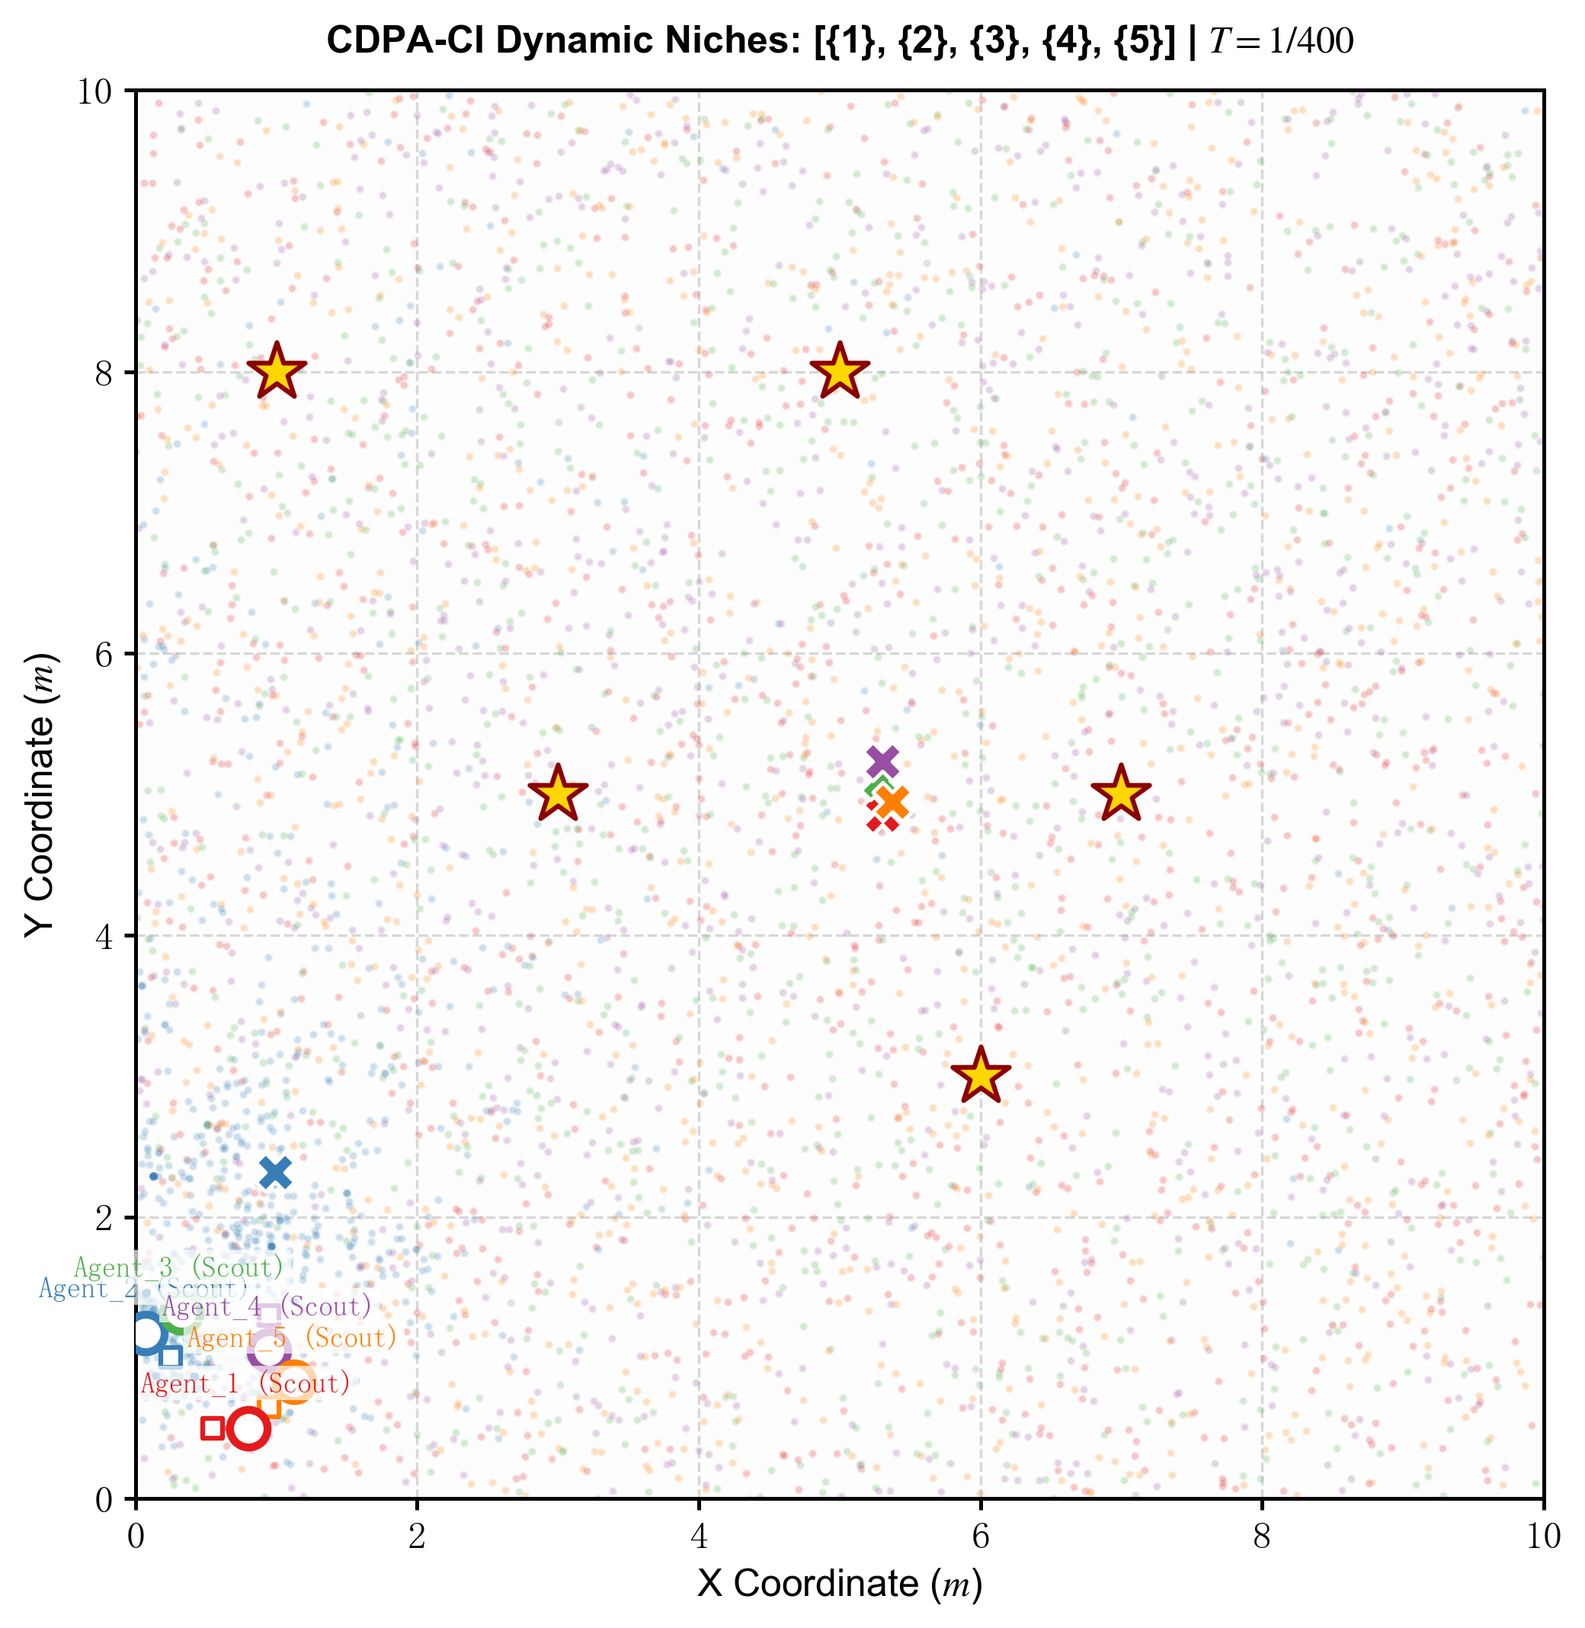
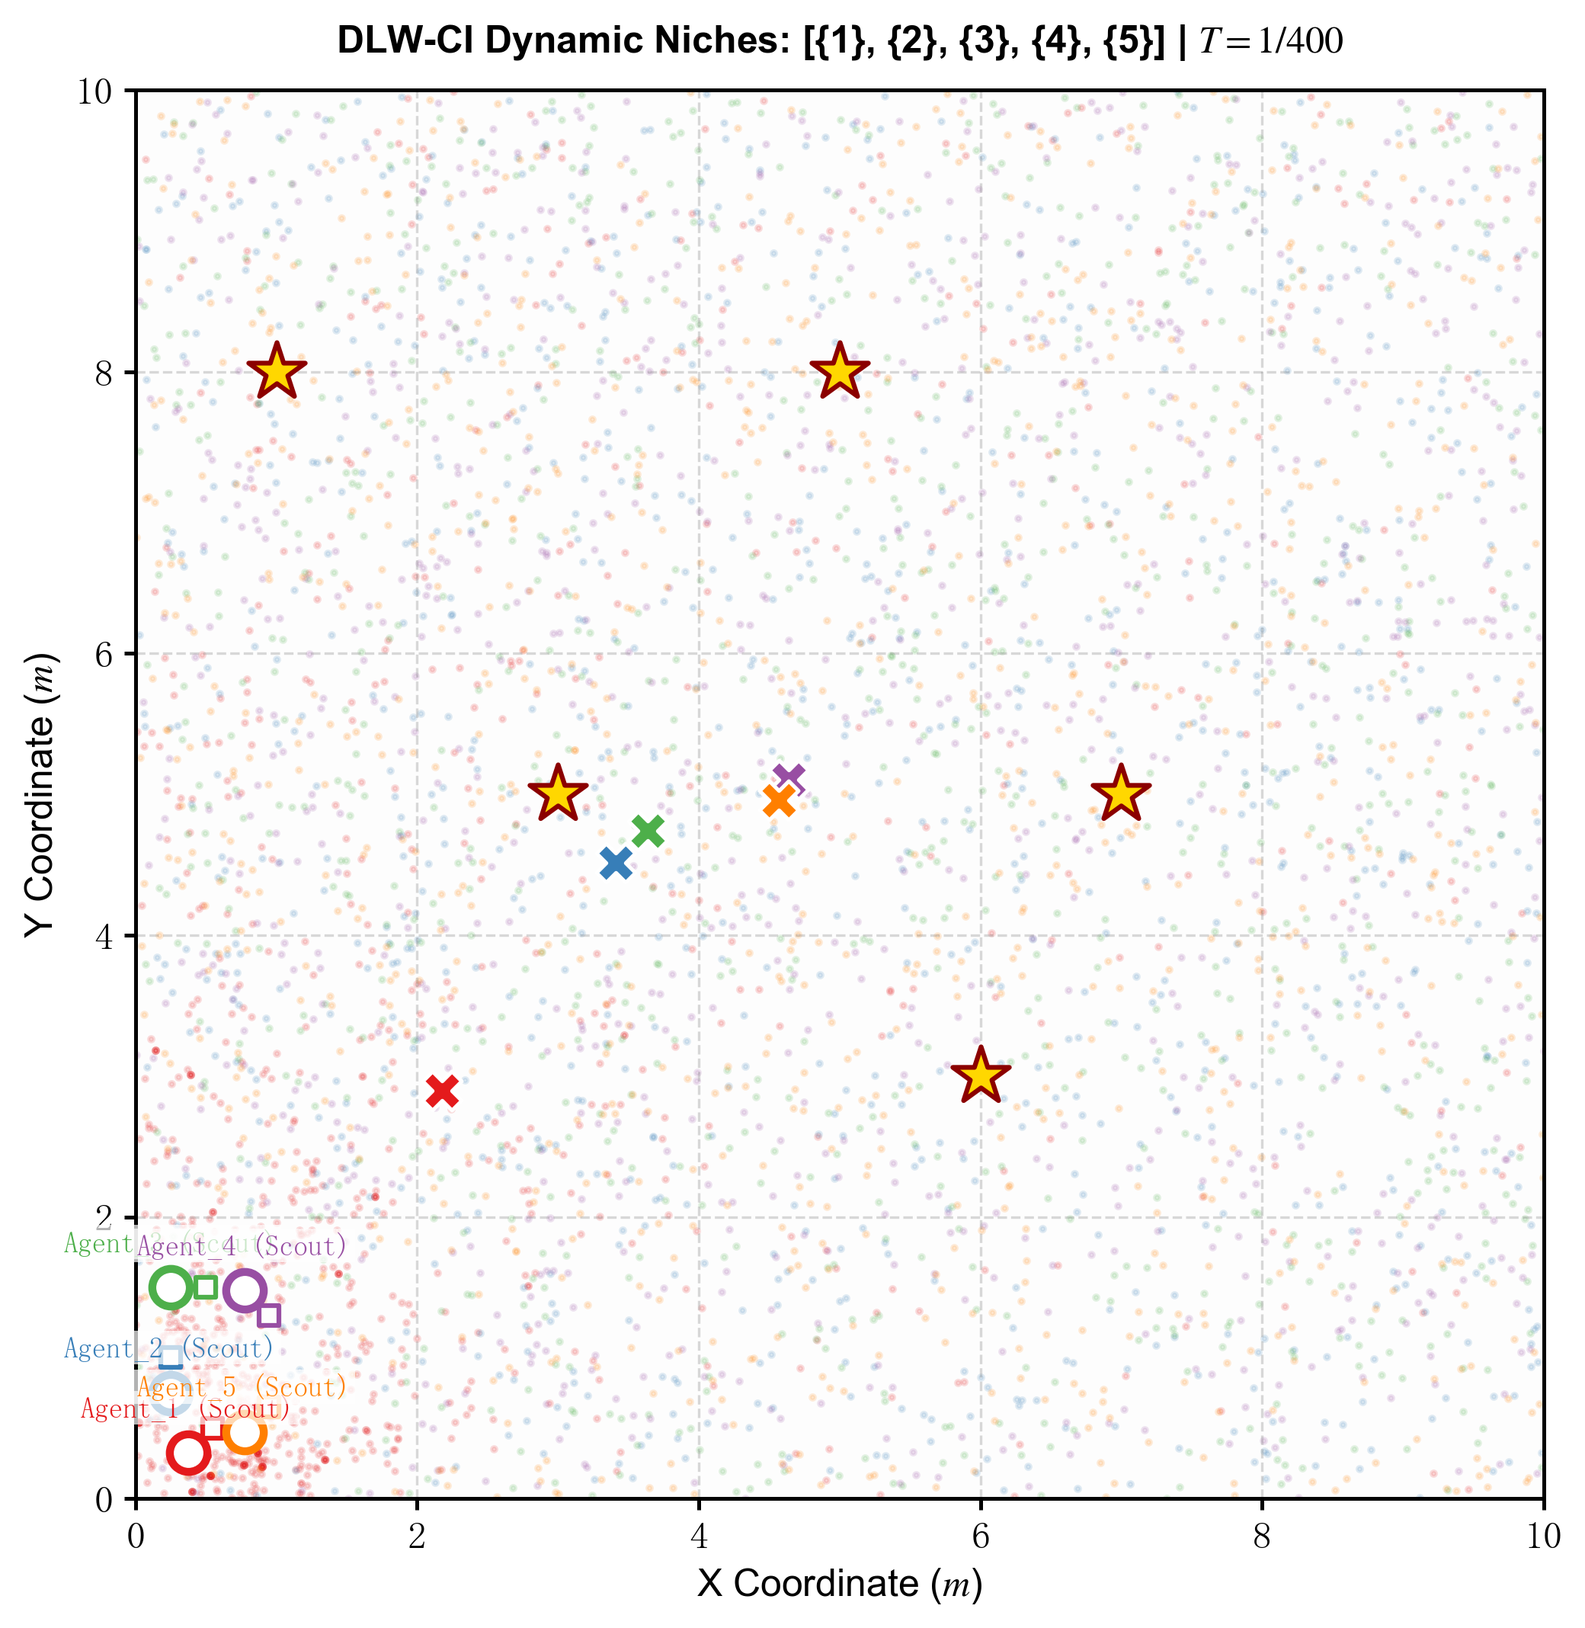
1

Changed region(s): [[0.0312, 0.0, 0.9688, 0.927]]

diff --git a/seeking_DLW-CI.py b/seeking_DLW-CI.py
@@ -94,7 +94,7 @@ layer_num = robot_num  # 平行粒子滤波层数等于探测器数量
 resample_threshold = 0.5  # ESS自适应重采样阈值
 
 # ==========================================
-# CDPA-CI Ablation / Debug 开关系统
+# DLW-CI Ablation / Debug 开关系统
 # ==========================================
 
 # --- 命令行参数解析 (用于 ablation 子进程调用) ---
@@ -340,7 +340,7 @@ def _parse_debug_summary(filepath):
 
 
 def run_single_experiment(config=None, seed=None):
-    """运行单次 CDPA-CI 仿真实验 (子进程)."""
+    """运行单次 DLW-CI 仿真实验 (子进程)."""
     script_dir = os.path.dirname(os.path.abspath(__file__))
     cmd = [sys.executable, __file__]
     if config is not None:
@@ -851,7 +851,7 @@ def _build_paper_main_table(ablation_rows):
             stability_note = "ESS-Only is more stable (lower failure rate \\& last-50 RMSE)."
     # 生成 LaTeX
     lines = []
-    lines.append("% Auto-generated by CDPA-CI paper pipeline")
+    lines.append("% Auto-generated by DLW-CI paper pipeline")
     lines.append("\\begin{table}[t]")
     lines.append("\\centering")
     lines.append("\\caption{Main Ablation Results (mean $\\pm$ std over 30 runs).}")
@@ -936,7 +936,7 @@ def _build_generalization_table(gen_csv_path="generalization_summary.csv"):
 def _build_harmful_table(harmful_rows):
     """生成 harmful modules LaTeX 表格."""
     modes_order = ["cognitive_fusion", "gated_cognitive_fusion", "full"]
-    mode_labels = {"cognitive_fusion": "Cog. Fusion", "gated_cognitive_fusion": "Gated Cog. Fusion", "full": "Full CDPA-CI"}
+    mode_labels = {"cognitive_fusion": "Cog. Fusion", "gated_cognitive_fusion": "Gated Cog. Fusion", "full": "Full DLW-CI"}
     lines = []
     lines.append("\\begin{table}[t]")
     lines.append("\\centering")
@@ -1025,7 +1025,7 @@ def _generate_paper_figures():
     harmful_rows = _read_csv_safe("harmful_summary.csv")
     if harmful_rows:
         h_modes = ["cognitive_fusion", "gated_cognitive_fusion", "full"]
-        h_labels = ["Cog.\nFusion", "Gated\nCog.Fusion", "Full\nCDPA-CI"]
+        h_labels = ["Cog.\nFusion", "Gated\nCog.Fusion", "Full\nDLW-CI"]
         h_means, h_stds = [], []
         for m in h_modes:
             found = [r for r in harmful_rows if r["mode"] == m and r["metric"] == "final_rmse"]
@@ -1075,7 +1075,7 @@ def _generate_experiment_summary(ablation_rows, harmful_rows, stability_note):
     """生成实验结论文本."""
     lines = []
     lines.append("=" * 60)
-    lines.append("CDPA-CI Paper Experiment Summary")
+    lines.append("DLW-CI Paper Experiment Summary")
     lines.append("=" * 60)
     lines.append("")
     # 找最优
@@ -1148,7 +1148,7 @@ def _generate_experiment_summary(ablation_rows, harmful_rows, stability_note):
 def summarize_paper_results():
     """论文级结果汇总主函数."""
     print("\n" + "=" * 60)
-    print("CDPA-CI: Generating Paper-Ready Results")
+    print("DLW-CI: Generating Paper-Ready Results")
     print("=" * 60)
     ablation_rows = _read_csv_safe("ablation_summary.csv")
     harmful_rows = _read_csv_safe("harmful_summary.csv")
@@ -1329,7 +1329,7 @@ def dif22_vectorized(X, Y, ln, lo_ids, lo_sources, p_x, p_y, p_q, a, V, D, lamda
     参数:
         fusion_weights: dict (可选), {j: omega_ij} 认知差异融合权重.
                        若为 None, 回退到原始 KL 衰减 weight = 1.0 + exp(-D_KL).
-                       (CDPA-CI Phase 4)
+                       (DLW-CI Phase 4)
     """
     X = np.asarray(X)
     Y = np.asarray(Y)
@@ -1344,7 +1344,7 @@ def dif22_vectorized(X, Y, ln, lo_ids, lo_sources, p_x, p_y, p_q, a, V, D, lamda
         R = a * lo_sources[i, 2] / F
         R = R * K * S
         if fusion_weights is not None:
-            # CDPA-CI Phase 4: cognitive fusion weight
+            # DLW-CI Phase 4: cognitive fusion weight
             w = fusion_weights.get(order_i, 0.0)
             base_conc += R * w
         else:
@@ -1360,7 +1360,7 @@ def dif22_vectorized(X, Y, ln, lo_ids, lo_sources, p_x, p_y, p_q, a, V, D, lamda
     R = a * p_q / F
     R = R * K * S
     if fusion_weights is not None:
-        # CDPA-CI Phase 4: self-trust = 1.0
+        # DLW-CI Phase 4: self-trust = 1.0
         particle_conc = R  # self belief is always trusted
     else:
         weight = 1.0 + np.exp(-D_KL[ln, ln])
@@ -1439,7 +1439,7 @@ def systematic_resample(weights):
 
 
 # ==========================================
-# CDPA-CI Phase 3: 动态小生境 (Niche) 构建函数
+# DLW-CI Phase 3: 动态小生境 (Niche) 构建函数
 # ==========================================
 def build_niche_graph(layer_cluster, D_KL, robot_status, delta_mu, delta_kl):
     """
@@ -1643,7 +1643,7 @@ def compute_niche_gaussian_consensus(niche, layer_cluster, layer_cov, w_obs):
 
 
 # ==========================================
-# CDPA-CI Phase 4: 认知差异 (Cognitive Difference) 与信念融合函数
+# DLW-CI Phase 4: 认知差异 (Cognitive Difference) 与信念融合函数
 # ==========================================
 def compute_entropy(weights):
     """
@@ -1785,7 +1785,7 @@ def same_source_gate(i, j, layer_cluster, layer_cov, D_KL, z, pX, pY, a, V, D, l
 
 
 # ==========================================
-# CDPA-CI Phase 5: 角色自适应 (Role-Adaptive) 函数
+# DLW-CI Phase 5: 角色自适应 (Role-Adaptive) 函数
 # ==========================================
 def compute_belief_confidence(layer_cov, ln):
     """
@@ -1848,7 +1848,7 @@ def assign_roles_for_all_agents(layer_cov, w_end, z, robot_status, thresholds):
 
 
 # ==========================================
-# CDPA-CI Phase 6: 源声明与排斥 (Source Declaration & Exclusion) 函数
+# DLW-CI Phase 6: 源声明与排斥 (Source Declaration & Exclusion) 函数
 # ==========================================
 def check_source_declaration(agent_id, layer_cluster, layer_cov, z, pX, pY, thresholds):
     """
@@ -2312,10 +2312,10 @@ plt.close()
 # ==========================================
 z_h = []
 D_KL_h = [[] for _ in range(layer_num)]
-ess_h = [[] for _ in range(layer_num)]  # CDPA-CI Phase 1: 每层每步的有效粒子数 (ESS)
-niche_h = []  # CDPA-CI Phase 3: 每个时间步的小生境分组列表
-fusion_weight_h = [[] for _ in range(layer_num)]  # CDPA-CI Phase 4: 每步的融合权重记录
-role_h = []  # CDPA-CI Phase 5: 每个时间步的角色分配记录
+ess_h = [[] for _ in range(layer_num)]  # DLW-CI Phase 1: 每层每步的有效粒子数 (ESS)
+niche_h = []  # DLW-CI Phase 3: 每个时间步的小生境分组列表
+fusion_weight_h = [[] for _ in range(layer_num)]  # DLW-CI Phase 4: 每步的融合权重记录
+role_h = []  # DLW-CI Phase 5: 每个时间步的角色分配记录
 diversity_penalty_h = []  # Source-Aware Diversity: 每步平均 diversity penalty
 adaptive_step_h = [[] for _ in range(layer_num)]  # Adaptive Step: 每机器人每步步长记录
 # Visitation-Aware Novelty
@@ -2347,9 +2347,9 @@ first_full_success_step = -1
 early_stop_flag = 0
 final_source_accuracy = 0.0
 best_source_accuracy = 0.0
-declared_sources = []  # CDPA-CI Phase 6: 已声明源位置列表 [(x, y, Q), ...]
-declared_source_h = []  # CDPA-CI Phase 6: 每个时间步声明的源数量
-candidate_sources = []  # CDPA-CI Phase 6 修复: 候选源 [{pos, counter, supporters}, ...]
+declared_sources = []  # DLW-CI Phase 6: 已声明源位置列表 [(x, y, Q), ...]
+declared_source_h = []  # DLW-CI Phase 6: 每个时间步声明的源数量
+candidate_sources = []  # DLW-CI Phase 6 修复: 候选源 [{pos, counter, supporters}, ...]
 mse_h = []
 source_true = np.column_stack((sourceX, sourceY))
 gif_frames = []
@@ -2365,12 +2365,12 @@ XP_y = pY.copy()
 XP_maxz = np.zeros(layer_num)
 robot_status = np.ones(layer_num) # 1 为活动状态, 0 为已宣称源并停留
 
-# CDPA-CI Phase 3: 初始小生境为各机器人独立 (第1步尚无KL信息)
+# DLW-CI Phase 3: 初始小生境为各机器人独立 (第1步尚无KL信息)
 niches = [[i] for i in range(layer_num) if robot_status[i] == 1]
 
-role_names = ['Scout', 'Tracker', 'Verifier']  # CDPA-CI Phase 5: 角色名称映射
+role_names = ['Scout', 'Tracker', 'Verifier']  # DLW-CI Phase 5: 角色名称映射
 
-# 打开运行日志文件 (CDPA-CI)
+# 打开运行日志文件 (DLW-CI)
 # 确保 results_dir 和 results_fig_dir 已存在（兼容外部或之前创建的位置）
 if 'results_dir' not in globals():
     from datetime import datetime
@@ -2386,7 +2386,7 @@ else:
     os.makedirs(results_fig_dir, exist_ok=True)
 
 log_f = open(os.path.join(results_dir, "run_log.txt"), "w", encoding="utf-8")
-log_f.write("CDPA-CI Simulation Log\n")
+log_f.write("DLW-CI Simulation Log\n")
 log_f.write("=" * 60 + "\n")
 log_f.write(f"Robots: {robot_num}, Particles: {particle_num}, Steps: {TT}\n")
 log_f.write(f"Sources: {source_num} at {list(zip(sourceX, sourceY))}\n")
@@ -2443,14 +2443,14 @@ for T in range(1, TT + 1):
     k_sim = 0.02
     delta_sim = 2.0 * np.exp(-k_sim * T) 
 
-    # 4.1 Niche 已由上一步的 form_dynamic_niches 动态生成 (CDPA-CI Phase 3)
+    # 4.1 Niche 已由上一步的 form_dynamic_niches 动态生成 (DLW-CI Phase 3)
     # niches 在每步末尾基于 KL + belief 距离更新, 供下一步使用
 
     # ==========================================
     # 4.2 粒子滤波滤波权重更新及 MCMC (各自估算)
     # ==========================================
 
-    # CDPA-CI Phase 4: 认知差异融合权重 (修复: niche内 + same-source gate)
+    # DLW-CI Phase 4: 认知差异融合权重 (修复: niche内 + same-source gate)
     all_fusion_weights = {}
     if USE_COGNITIVE_FUSION:
         gate_thresholds = {'dist_th': same_source_dist_th, 'kl_th': same_source_kl_th,
@@ -2518,7 +2518,7 @@ for T in range(1, TT + 1):
             temp_w = np.ones(particle_num) / particle_num
         w_end[L, :] = temp_w
         
-        # 2. ESS-based adaptive resampling (CDPA-CI Phase 1)
+        # 2. ESS-based adaptive resampling (DLW-CI Phase 1)
         ess = effective_sample_size(w_end[L, :])
         if ess < resample_threshold * particle_num:
             # ESS 不足 → 执行系统重采样 (低方差)
@@ -2529,7 +2529,7 @@ for T in range(1, TT + 1):
             # ESS 充足 → 保留当前粒子及权重, 跳过重采样
             resampled_particles = multi_particle_copy[L, :, :]
             w_ended_uniform = w_end[L, :].copy()
-        # 记录 ESS 历史 (CDPA-CI Phase 1)
+        # 记录 ESS 历史 (DLW-CI Phase 1)
         for member in niche:
             ess_h[member].append(ess)
         
@@ -2566,7 +2566,7 @@ for T in range(1, TT + 1):
         
         # 4. 粒子群更新 (受 USE_PARTICLE_SHARING_IN_NICHE 控制)
         if USE_PARTICLE_SHARING_IN_NICHE:
-            # 全员硬同步 (原始 CDPA-CI 行为, 会抹掉多样性)
+            # 全员硬同步 (原始 DLW-CI 行为, 会抹掉多样性)
             for member in niche:
                 multi_particle[member, :, :] = final_particles
                 w_obs[member, :] = w_ended_uniform
@@ -2663,7 +2663,7 @@ for T in range(1, TT + 1):
             recalculated_niches.append(niche)
     niches = recalculated_niches
 
-    # CDPA-CI Phase 3: 动态小生境更新 (受 USE_DYNAMIC_NICHE 开关控制)
+    # DLW-CI Phase 3: 动态小生境更新 (受 USE_DYNAMIC_NICHE 开关控制)
     if USE_DYNAMIC_NICHE:
         niches = form_dynamic_niches(layer_cluster, D_KL, robot_status, T, TT,
                                       delta_mu_start, delta_mu_end, delta_kl_start, delta_kl_end,
@@ -2673,7 +2673,7 @@ for T in range(1, TT + 1):
         niches = [[i] for i in range(layer_num) if robot_status[i] == 1]
     niche_h.append([list(n) for n in niches])
 
-    # CDPA-CI Phase 5: 角色自适应分配 (受 USE_ROLE_ADAPTATION 开关控制)
+    # DLW-CI Phase 5: 角色自适应分配 (受 USE_ROLE_ADAPTATION 开关控制)
     if USE_ROLE_ADAPTATION:
         role_thresholds = {'conf_low': conf_th_low, 'conf_high': conf_th_high,
                            'entropy_high': entropy_th_high, 'patchiness_high': patchiness_th_role}
@@ -2690,7 +2690,7 @@ for T in range(1, TT + 1):
     print(role_msg)
     log_f.write(role_msg + "\n")
 
-    # CDPA-CI Phase 6: 统一 candidate→declared pipeline (受 USE_SOURCE_DECLARATION 开关控制)
+    # DLW-CI Phase 6: 统一 candidate→declared pipeline (受 USE_SOURCE_DECLARATION 开关控制)
     if USE_SOURCE_DECLARATION:
         decl_thresholds = {'cov_th': source_declare_cov_th, 'dist_th': source_declare_dist_th,
                            'obs_th': source_declare_obs_th}
@@ -2797,7 +2797,7 @@ for T in range(1, TT + 1):
                         
             delta_F = F_cur - F_next
 
-            # CDPA-CI Phase 5: 角色感知偏置 (受 USE_ROLE_ADAPTATION 开关控制)
+            # DLW-CI Phase 5: 角色感知偏置 (受 USE_ROLE_ADAPTATION 开关控制)
             if USE_ROLE_ADAPTATION:
                 beta_tracker = 0.3
                 beta_verifier = 0.15
@@ -2811,7 +2811,7 @@ for T in range(1, TT + 1):
                         move_dist = np.sqrt((nx - pX[ln]) ** 2 + (ny - pY[ln]) ** 2)
                         delta_F[idx] -= beta_verifier * move_dist
 
-            # CDPA-CI Phase 6: 已声明源排斥惩罚 (受 USE_SOURCE_DECLARATION 开关控制)
+            # DLW-CI Phase 6: 已声明源排斥惩罚 (受 USE_SOURCE_DECLARATION 开关控制)
             if USE_SOURCE_DECLARATION and len(declared_sources) > 0:
                 for idx in range(num_candidates):
                     nx, ny = next_executable_location[idx, 0], next_executable_location[idx, 1]
@@ -2969,7 +2969,7 @@ for T in range(1, TT + 1):
         ax_main.set_facecolor('#FDFDFD')
         
         niche_str = ', '.join(['{' + ','.join([f'{m+1}' for m in n]) + '}' for n in niches])
-        ax_main.set_title(rf'CDPA-CI Dynamic Niches: [{niche_str}] | $T = {T}/{TT}$',
+        ax_main.set_title(rf'DLW-CI Dynamic Niches: [{niche_str}] | $T = {T}/{TT}$',
                           fontname='Arial', fontsize=12, fontweight='bold', pad=12)
         
         frame_path = os.path.join(results_fig_dir, f"{T}.png")
@@ -3040,7 +3040,7 @@ pcol = plt.pcolormesh(X_grid, Y_grid, np.clip(R_est_grid, 0, 15.0), shading='aut
 cbar = plt.colorbar(pcol)
 cbar.set_label(r'Estimated Concentration $(ppm)$', fontsize=12)
 plt.scatter(rounded_est[:, 0], rounded_est[:, 1], marker='^', s=180, facecolor='#FF4500', edgecolor='white', linewidth=1.2, label="Estimated Core", zorder=5)
-# CDPA-CI Phase 6: 标记已声明源
+# DLW-CI Phase 6: 标记已声明源
 if len(declared_sources) > 0:
     decl_arr = np.array(declared_sources)
     plt.scatter(decl_arr[:, 0], decl_arr[:, 1], marker='D', s=200, facecolor='#00FF00', edgecolor='black', linewidth=1.5, label=f"Declared ({len(declared_sources)})", zorder=7)
@@ -3106,7 +3106,7 @@ plt.close()
 
 # 5.6 Niche 数量绘图代码已根据用户要求移除。
 
-# 5.7 绘制认知差异融合权重演化图 (CDPA-CI Phase 4: Figure Fusion Weights)
+# 5.7 绘制认知差异融合权重演化图 (DLW-CI Phase 4: Figure Fusion Weights)
 if USE_COGNITIVE_FUSION and len(fusion_weight_h[0]) > 0:
     plt.figure(figsize=(9, 6))
     ax = plt.gca()
@@ -3125,7 +3125,7 @@ if USE_COGNITIVE_FUSION and len(fusion_weight_h[0]) > 0:
     plt.ylim(0, 1.05)
     plt.xlabel(r'Iteration step ($T$)', fontsize=14)
     plt.ylabel(r'Fusion Weight $\omega_{1,j}$ (Cognitive Softmax)', fontsize=14)
-    plt.title(r'Evolution of Cognitive-Difference Belief Fusion Weights (CDPA-CI Phase 4)',
+    plt.title(r'Evolution of Cognitive-Difference Belief Fusion Weights (DLW-CI Phase 4)',
               fontsize=15, fontweight='bold', pad=15)
     plt.legend(framealpha=0.9, edgecolor='black', fontsize=11, loc='best')
     plt.grid(True, linestyle='--', color='gray', alpha=0.3)
@@ -3146,7 +3146,7 @@ for ln in range(layer_num):
     d_kl_h_dict[ln] = np.array(D_KL_h[ln])
 # .mat exports disabled per user request; 5_D_KL_h.mat and 5_mse_h.mat will not be created.
 
-# 关闭运行日志 (CDPA-CI)
+# 关闭运行日志 (DLW-CI)
 log_f.write("\n" + "=" * 60 + "\n")
 log_f.write(f"Simulation complete. Final RMSE: {mse_h[-1]:.4f}\n")
 log_f.write(f"Total declared sources: {len(declared_sources)}\n")
@@ -3156,7 +3156,7 @@ log_f.close()
 print("运行日志已保存为 run_log.txt")
 
 # ==========================================
-# CDPA-CI: 生成 debug_summary.txt (消融调试摘要)
+# DLW-CI: 生成 debug_summary.txt (消融调试摘要)
 # ==========================================
 niche_counts_arr = np.array([len(n) for n in niche_h])
 max_niche_sizes = np.array([max([len(n) for n in niche_h[t]]) if len(niche_h[t]) > 0 else 0
@@ -3169,7 +3169,7 @@ if role_arr.size > 0:
 
 summary_lines = []
 summary_lines.append("=" * 60)
-summary_lines.append("CDPA-CI Debug Summary")
+summary_lines.append("DLW-CI Debug Summary")
 summary_lines.append("=" * 60)
 summary_lines.append(f"run_mode          : {run_mode}")
 summary_lines.append(f"USE_ESS           : {USE_ESS}")
@@ -3203,7 +3203,7 @@ else:
     summary_lines.append(f"mean pairwise belief dist: N/A")
 summary_lines.append(f"role distribution : {role_dist}")
 summary_lines.append(f"reset events      : {reset_event_count}")
-# Duplicate-search 指标 (CDPA-CI)
+# Duplicate-search 指标 (DLW-CI)
 dup_src_count, dup_robot_count, coverage_rate = _compute_duplicate_metrics(
     layer_cluster, source_true, robot_status, source_exclusion_radius)
 # Strict success evaluation

diff --git a/README.md b/README.md
@@ -40,13 +40,13 @@ The script will execute the full multi-drone cooperative search simulation and g
 
 The following snapshots show the algorithm's performance at different stages of the search process:
 
-| Step 1 | Step 45 |
-|:---:|:---:|
-| ![Step 1](Assets/1.png) | ![Step 45](Assets/45.png) |
+|        Step 1        |   Step 45   |
+| :-------------------: | :----------: |
+| ![Step 1](Assets/1.png) | ![Step 1](Assets/40.png)|
 
-| Step 85 | Step 145 |
-|:---:|:---:|
-| ![Step 85](Assets/85.png) | ![Step 145](Assets/145.png) |
+|         Step 85         |         Step 145         |
+| :---------------------: | :-----------------------: |
+| ![Step 85](Assets/70.png) | ![Step 145](Assets/250.png) |
 
 > **Legend:** Colored **X** markers represent the estimated source locations (one color per drone/agent); yellow ★ stars indicate the true source positions. The background heatmap shows the gas concentration field.
 
